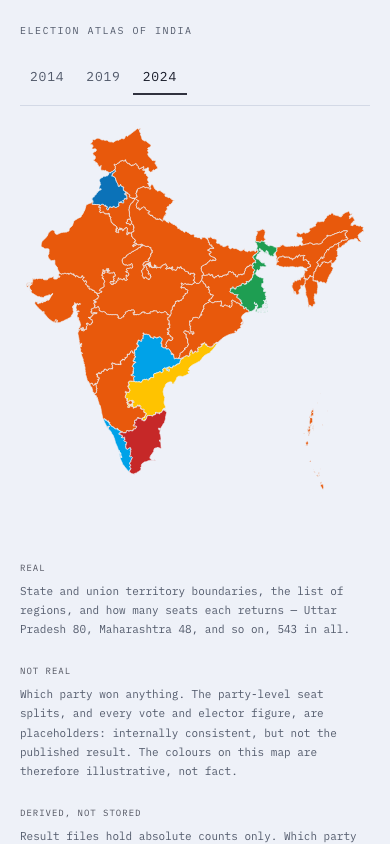
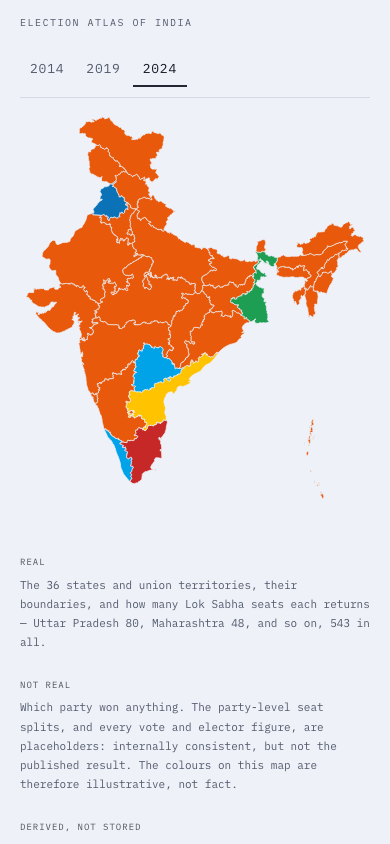
Make the map fit the screen instead of the column
The map was setting its own height from its width, so filling the column made it
1629px tall on a 1440-wide screen and pushed the page past one screen. Height is
now the binding constraint and width is derived: whatever height the viewport can
spare, times India's ratio, capped by the column so it cannot spill sideways
either. The map now ends inside the viewport at every size tried, from 360x740 to
2560x1440.

This is a trade, not a fix, and the trade has a number. India's projected extent
is 0.8839 wide to 1 tall. A map wide enough to fill a 1440px viewport needs 1629px
of height; one that fits a 900px viewport is 795px wide at most. Width and height
cannot both be filled on any screen, so the page now buys no-scroll with width:
at 1440x900 the map goes from 1256px wide to 661px.

That is expressed as one dial rather than a hard choice. --map-spill is 1 for a
map that fits exactly; raising it trades scroll for width, and the measured
values at 1440x900 are 1 -> 46% width and no spill, 1.3 -> 60% and 172px,
1.9 -> 87% and 621px.

Everything still scrolling after this is the footer, not the map: 337px at
1440x900, all of it the provenance colophon. Removing that last scroll would need
the map at about 369px wide, which is smaller than the 623px that was already too
small.

diff --git a/work/election-atlas/index.html b/work/election-atlas/index.html
@@ -24,6 +24,16 @@
   --col:86rem;
   --pad:max(clamp(1.25rem,4vw,4.5rem),calc((100vw - var(--col)) / 2));
   --ease:cubic-bezier(.2,0,0,1);
+  /* Everything above and below the map, inside one screen: the masthead, the
+     plate's vertical padding, and a little air at the foot. The map's height is
+     the viewport minus this, so the map can never push the page past one screen. */
+  --chrome:9.5rem;
+  /* The one dial. 1 = the map fits the screen exactly and never scrolls.
+     Raise it to trade vertical scroll for width: India is taller than wide, so
+     at 1 a laptop gives the map about half the screen width, and every extra
+     tenth of a screen of scroll buys roughly a tenth more width. */
+  --map-spill:1;
+  --map-h:calc((100vh - var(--chrome)) * var(--map-spill));
 }
 
 *{box-sizing:border-box}
@@ -49,7 +59,7 @@ main{padding:0 var(--pad)}
 .hair{height:1px;background:var(--rule);border:0;margin:0}
 
 /* ── masthead ─────────────────────────────────────────────────────────── */
-.masthead{padding-top:clamp(1.5rem,3.4vw,3rem)}
+.masthead{padding-top:clamp(1rem,2.4vw,2rem)}
 .mh-top{display:flex;align-items:baseline;justify-content:space-between;gap:var(--s5);flex-wrap:wrap}
 .mh-top .lbl{margin:0}
 .years{display:flex;align-items:baseline;gap:2px;margin-bottom:-6px}
@@ -65,17 +75,20 @@ main{padding:0 var(--pad)}
 .year[disabled]{opacity:.4;cursor:default}
 
 /* ── the plate ────────────────────────────────────────────────────────── */
-.field{padding:clamp(1rem,3vw,2.5rem) 0 clamp(2rem,5vw,4rem)}
+.field{padding:clamp(.75rem,2vw,1.5rem) 0 clamp(1rem,2.5vw,2rem)}
 .mapfig{margin:0;min-width:0}
 #map{
-  display:block;width:100%;height:auto;overflow:visible;
-  /* The map is the page, so its width is the content column and its height is
-     whatever that width implies. Declaring India's projected extent as the
-     intrinsic ratio is what makes that true: height is derived from width, so
-     the map can never be letterboxed inside its own box at any breakpoint, and
-     widening it genuinely enlarges it instead of adding margin.
-     0.8839 = the geoMercator extent of lon 68.09..97.40 by lat 6.76..37.04. */
+  display:block;margin:0 auto;height:auto;overflow:visible;
+  /* India's projected extent is 0.8839 wide to 1 tall — taller than wide, which
+     is the whole problem. A map wide enough to fill a 1440px viewport is 1629px
+     tall; one that fits a 900px viewport is 795px wide. Width and height cannot
+     both be filled, so height is the binding constraint and width is derived:
+     whatever height the viewport can spare, times the ratio, capped by the
+     column so it can never spill sideways either.
+     0.8839 = geoMercator extent of lon 68.09..97.40 by lat 6.76..37.04. */
   aspect-ratio:884 / 1000;
+  --map-h:calc((100dvh - var(--chrome)) * var(--map-spill));
+  width:min(100%, calc(var(--map-h) * .8839));
 }
 #map path{
   stroke:var(--paper);stroke-width:.75;stroke-linejoin:round;
